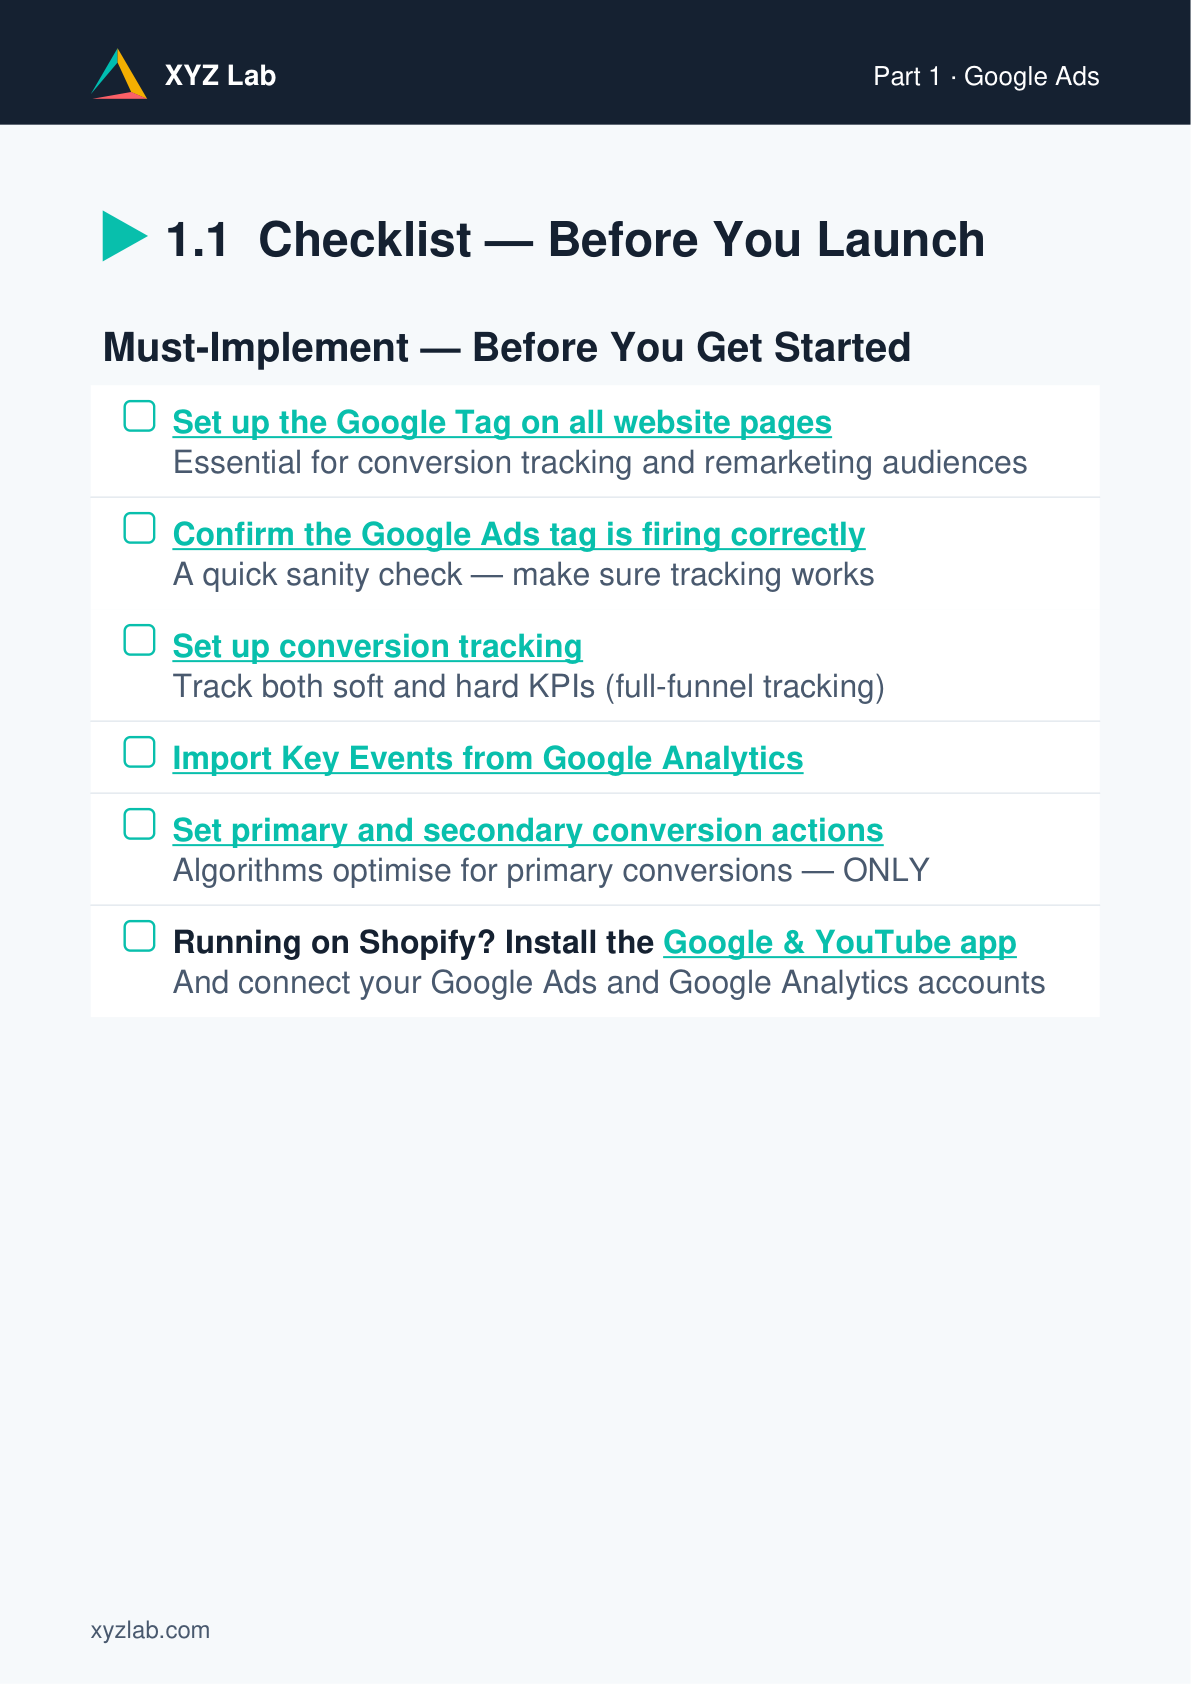
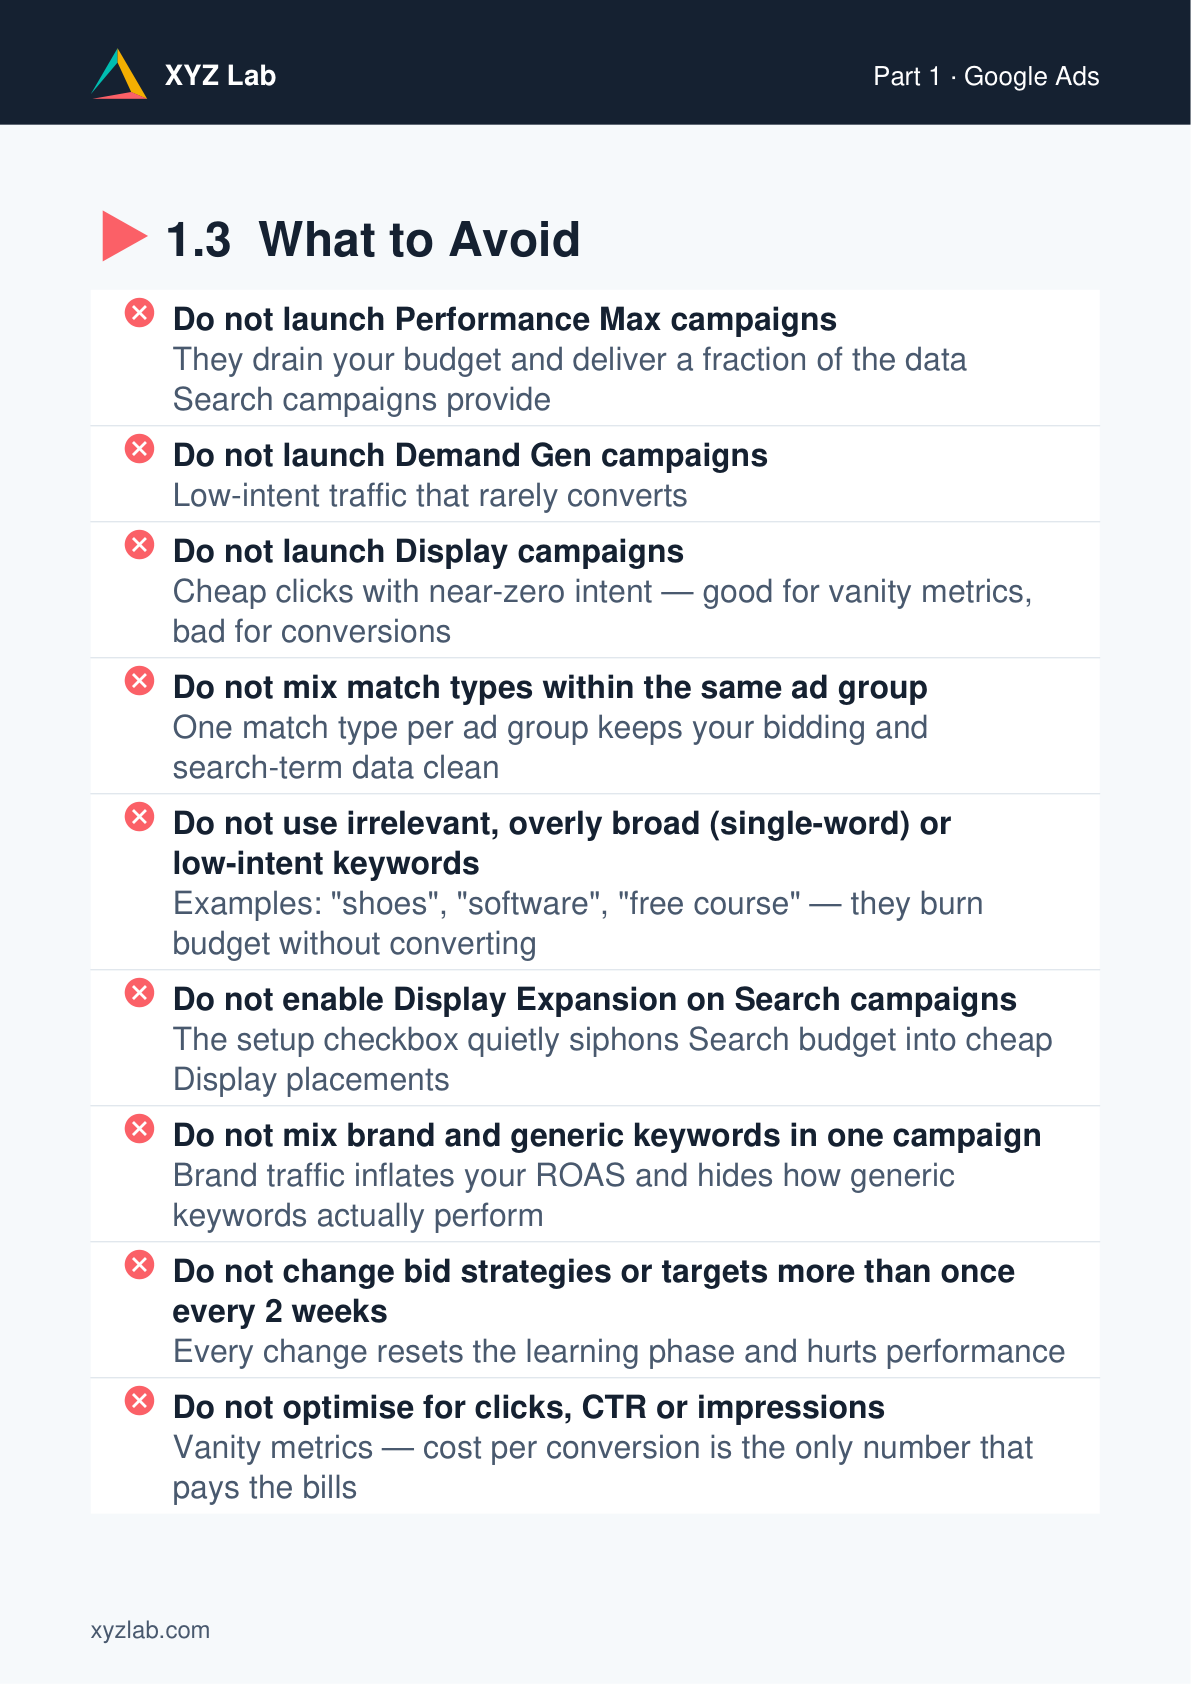
Update playbook screenshots: pages 8, 6, 13, 16

Changed region(s): [[0.0621, 0.1235, 0.8699, 0.8955], [0.2175, 0.1235, 0.8388, 0.1544], [0.1553, 0.1235, 0.1864, 0.1544]]

diff --git a/campaign-optimisation-playbook/index.html b/campaign-optimisation-playbook/index.html
@@ -653,8 +653,8 @@
         <p class="pb-under-cta">Instant download &nbsp;·&nbsp; 18 pages &nbsp;·&nbsp; 20+ video tutorials</p>
       </div>
       <div class="pb-hero-screenshots">
-        <img src="screenshot-1.png" alt="Playbook — Google Ads pre-launch checklist" class="pb-screenshot-front" loading="eager" />
-        <img src="screenshot-3.png" alt="Playbook — Meta Ads framework" class="pb-screenshot-back" loading="eager" />
+        <img src="screenshot-1.png" alt="Playbook — What to Avoid in Google Ads" class="pb-screenshot-front" loading="eager" />
+        <img src="screenshot-3.png" alt="Playbook — Meta Ads campaign optimisation" class="pb-screenshot-back" loading="eager" />
       </div>
     </div>
     <div class="pb-trust-strip">
@@ -783,22 +783,22 @@
       </div>
       <div class="pb-screenshots">
         <div class="pb-screenshot">
-          <img src="screenshot-1.png" alt="Playbook page preview 1" loading="lazy"
+          <img src="screenshot-1.png" alt="Page 8 — What to Avoid in Google Ads" loading="lazy"
                onerror="this.style.display='none';this.nextElementSibling.style.display='flex';" />
-          <div class="pb-screenshot-placeholder" style="display:none;">Page 4 — Google Ads Pre-launch</div>
+          <div class="pb-screenshot-placeholder" style="display:none;">Page 8 — What to Avoid</div>
         </div>
         <div class="pb-screenshot">
-          <img src="screenshot-2.png" alt="Playbook page preview 2" loading="lazy"
+          <img src="screenshot-2.png" alt="Page 6 — Keywords, RSA and Must-Have Assets" loading="lazy"
                onerror="this.style.display='none';this.nextElementSibling.style.display='flex';" />
-          <div class="pb-screenshot-placeholder" style="display:none;">Page 7 — Weekly Routines</div>
+          <div class="pb-screenshot-placeholder" style="display:none;">Page 6 — Keywords & RSA</div>
         </div>
         <div class="pb-screenshot">
-          <img src="screenshot-3.png" alt="Playbook page preview 3" loading="lazy"
+          <img src="screenshot-3.png" alt="Page 13 — Meta Ads campaign optimisation" loading="lazy"
                onerror="this.style.display='none';this.nextElementSibling.style.display='flex';" />
-          <div class="pb-screenshot-placeholder" style="display:none;">Page 13 — Meta Ads Framework</div>
+          <div class="pb-screenshot-placeholder" style="display:none;">Page 13 — Meta Optimisation</div>
         </div>
         <div class="pb-screenshot">
-          <img src="screenshot-4.png" alt="Playbook page preview 4" loading="lazy"
+          <img src="screenshot-4.png" alt="Page 16 — Scaling rules and experimentation" loading="lazy"
                onerror="this.style.display='none';this.nextElementSibling.style.display='flex';" />
           <div class="pb-screenshot-placeholder" style="display:none;">Page 16 — Scaling Rules</div>
         </div>
